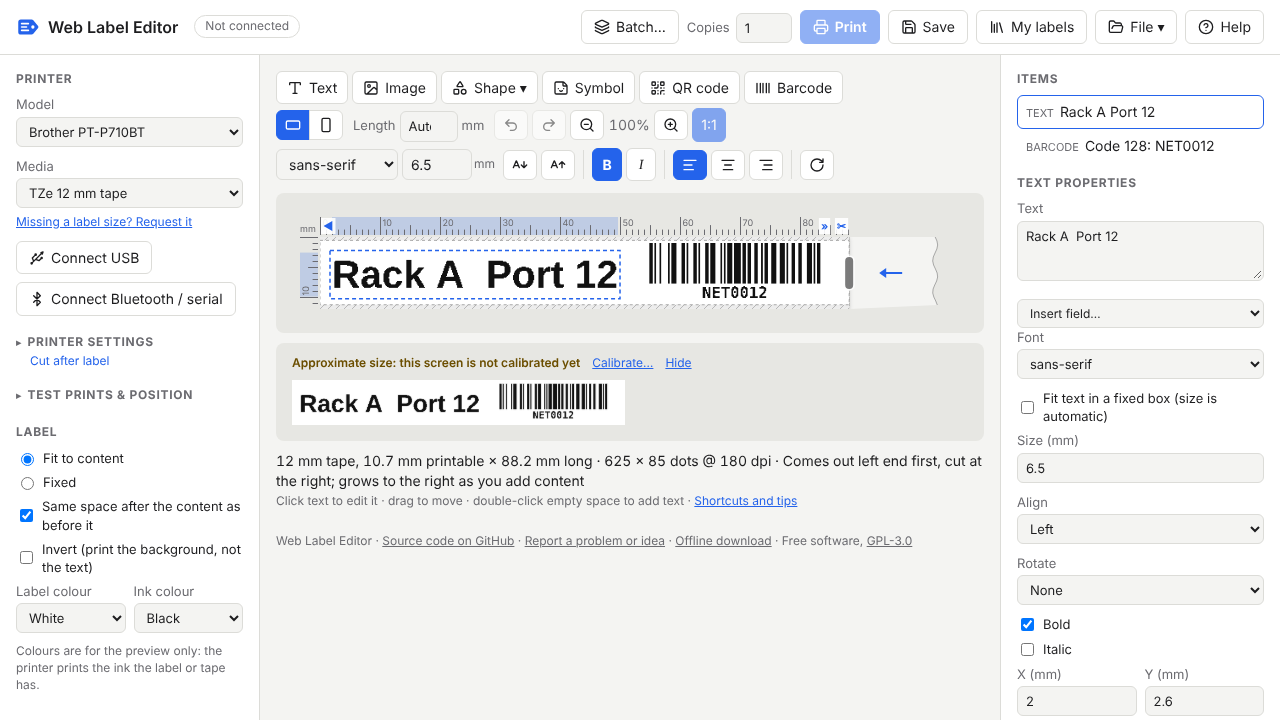
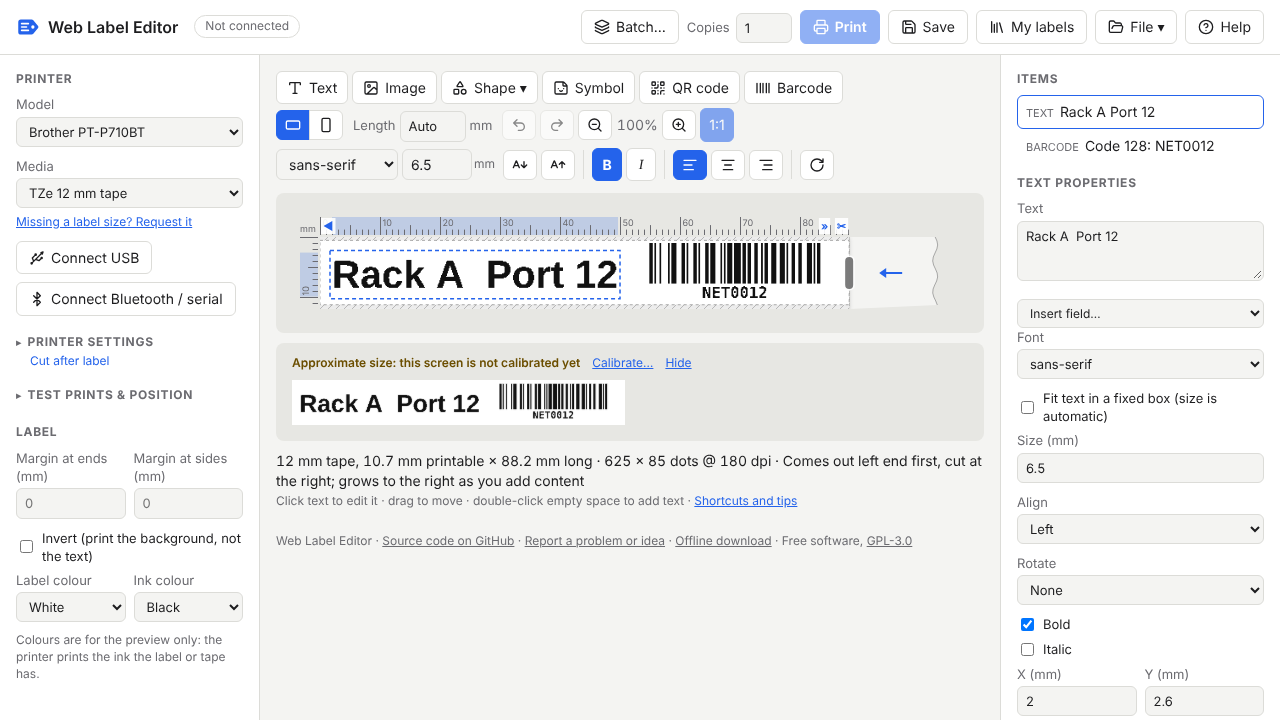
Your own margins; the Length box shows on die-cut labels too
Margin at ends and Margin at sides (under Label) keep space clear from
the label's edges: the safe-area guide, Fill safe area and new items keep
inside them, a note says when something is inside them, and an Auto
label leaves at least that much after the content. They don't change the
actual-size view, which shows what the printer leaves off.

The Length box is always in the toolbar (greyed, with the label's own
length, on die-cut labels), and its tooltip says when to use Auto or a
set length. The duplicate Fit to content / Fixed controls and the end
padding setting in the side panel are gone.

Claude-Session: https://claude.ai/code/session_01YQFkThD3TEfZZoGyfdA6sY

Changed region(s): [[0.0, 0.6111, 0.1875, 0.9472], [0.3438, 0.1528, 0.5938, 0.2139]]

diff --git a/src/app.js b/src/app.js
@@ -39,7 +39,8 @@ function newDesign() {
     printer: 'dymo-lw450',
     medium: '30252',
     options: {},
-    length: { mode: 'auto', mm: 60, padMm: 2, even: true },
+    length: { mode: 'auto', mm: 60 },
+    margins: { endsMm: 0, sidesMm: 0 },
     invert: false,
     items: [
       {
@@ -300,7 +301,9 @@ const hardMargins = (lane) => {
   const r = reachMm(lane);
   return { left: Math.max(0, r.left), right: Math.max(0, r.right), top: Math.max(0, r.top), bottom: Math.max(0, r.bottom) };
 };
-const margins = (lane) => {
+// Where the printer prints reliably: the label's own margins and the
+// printer's reach.
+const printerMargins = (lane) => {
   const mg = mediumMargins(medium());
   const hard = hardMargins(lane);
   return {
@@ -309,6 +312,20 @@ const margins = (lane) => {
     top: Math.max(mg.top, hard.top),
     bottom: Math.max(mg.bottom, hard.bottom),
   };
+};
+// The user's own margins (Label → Margins), from the label's edges: at the
+// ends (along the feed) and the sides (across). Saved with the design.
+const userMargins = () => {
+  const ends = Math.max(0, Number(design.margins?.endsMm) || 0);
+  const sides = Math.max(0, Number(design.margins?.sidesMm) || 0);
+  return { left: ends, right: ends, top: sides, bottom: sides };
+};
+// The safe area items keep to: the printer's, or the user's margins where
+// they are wider. Guides, warnings, Fill safe area and new items use it.
+const margins = (lane) => {
+  const p = printerMargins(lane);
+  const u = userMargins();
+  return { left: Math.max(p.left, u.left), right: Math.max(p.right, u.right), top: Math.max(p.top, u.top), bottom: Math.max(p.bottom, u.bottom) };
 };
 // The whole area an item can cover, overprint border included (mm, label
 // coordinates): the label plus its overprint border, within reach.
@@ -625,14 +642,16 @@ function draw() {
   ctx.fillRect(0, hard.y1, cssW, cssH - hard.y1);
   ctx.fillRect(0, hard.y0, hard.x0, hard.y1 - hard.y0);
   ctx.fillRect(hard.x1, hard.y0, cssW - hard.x1, hard.y1 - hard.y0);
-  const safe = slots.map((s) => {
-    const mg = round ? evenMargins(margins(s.lane)) : margins(s.lane);
+  const safeRects = (of) => slots.map((s) => {
+    const mg = round ? evenMargins(of(s.lane)) : of(s.lane);
     const a = px(toDisplay({
       x: mg.left * dpmm, y: s.y + mg.top * dpmm,
       w: geo.length - (mg.left + mg.right) * dpmm, h: geo.labelDots - (mg.top + mg.bottom) * dpmm,
     }));
     return { x0: a.x, y0: a.y, x1: a.x + a.w, y1: a.y + a.h };
   });
+  const safe = safeRects(margins);
+  const printerSafe = safeRects(printerMargins);
   ctx.strokeStyle = 'rgba(120, 120, 120, .6)';
   ctx.lineWidth = 1;
   ctx.setLineDash([3, 3]);
@@ -680,12 +699,18 @@ function draw() {
   const lenMm = geo.length / dpmm;
   // The Length box in the toolbar (rolls only): Auto, or the fixed length.
   const lenBox = $('len-box');
-  $('len-quick').hidden = !!med.lengthDots;
-  if (document.activeElement !== lenBox) {
+  // Die-cut labels: their own length, shown greyed so the box is always there.
+  lenBox.disabled = !!med.lengthDots;
+  if (med.lengthDots) {
+    lenBox.value = String(round1(lenMm));
+    lenBox.title = `Die-cut labels are ${round1(lenMm)} mm long. On a continuous roll or tape, set Auto or a length here.`;
+  } else if (document.activeElement !== lenBox) {
     lenBox.value = design.length.mode === 'fixed' ? String(design.length.mm) : 'Auto';
     lenBox.title = design.length.mode === 'fixed'
-      ? 'Label length in mm. Auto makes it as long as the content. You can also drag the label\'s end.'
-      : `Auto: as long as the content (now ${lenMm.toFixed(0)} mm). Type a length to fix it, or drag the label's end.`;
+      ? 'A set length: every label the same, e.g. to match drawer fronts or a batch. Auto makes it as long as the content. '
+        + 'You can also drag the label\'s end.'
+      : `Auto: as long as the content (now ${lenMm.toFixed(0)} mm), which saves tape when the text varies. `
+        + 'Type a length for labels that must all match, or drag the label\'s end.';
   }
   const lanes = med.lanes;
   const stock = m.family === 'brother-pt' ? 'tape' : med.continuous ? 'roll' : 'label';
@@ -721,8 +746,10 @@ function draw() {
     return [[b.x, b.y], [b.x + b.w, b.y], [b.x, b.y + b.h], [b.x + b.w, b.y + b.h]]
       .some(([x, y]) => ((x * scale - cx) / rx) ** 2 + ((y * scale - cy) / ry) ** 2 > 1);
   };
-  const pastSafe = (b, i) => b && outside(b, safe[last.lanes[i]]) || (b && round && outsideCircle(b, safe[last.lanes[i]]));
+  const pastSafe = (b, i, area = printerSafe) => b && outside(b, area[last.lanes[i]]) || (b && round && outsideCircle(b, area[last.lanes[i]]));
   const unsafe = offLabel ? [] : last.inks.map((b, i) => (pastSafe(b, i) ? design.items[i] : null)).filter(Boolean);
+  // Inside the user's own margins (but printable): worth a word, not a warning about printing.
+  const inMargin = offLabel || unsafe.length ? [] : last.inks.map((b, i) => (pastSafe(b, i, safe) ? design.items[i] : null)).filter(Boolean);
   const overprint = unsafe.length > 0;
   const dims = $('dims');
   // In words: the ends as seen in the preview.
@@ -735,6 +762,8 @@ function draw() {
     + cutNote
     + (overprint ? `  ·  ⚠ The ${kinds[unsafe[0].type]}${short(unsafe[0])}${unsafe.length > 1 ? ` and ${unsafe.length - 1} more` : ''} `
       + `${unsafe.length > 1 ? 'go' : 'goes'} past the safe area: it may be trimmed or not print` : '')
+    + (inMargin.length ? `  ·  The ${kinds[inMargin[0].type]}${short(inMargin[0])}${inMargin.length > 1 ? ` and ${inMargin.length - 1} more` : ''} `
+      + `${inMargin.length > 1 ? 'are' : 'is'} inside your margins` : '')
     + (last.hidden ? `  ·  ${last.hidden} item${last.hidden > 1 ? 's' : ''} on the other label${lanes?.count > 2 ? 's' : ''} hidden (choose "A different design on each")` : '')
     + `  ·  ${feedNote}`;
   dims.classList.toggle('warn', offLabel);
@@ -1181,16 +1210,9 @@ function buildSetup() {
   buildCustomMedia();
   $('request-label').hidden = !!m.custom || medium().id === 'custom';
 
-  const fixedLength = !!medium().lengthDots;
-  $('length-controls').hidden = fixedLength;
-  document.querySelectorAll('input[name="lenmode"]').forEach((r) => { r.checked = r.value === design.length.mode; });
-  $('len-mm').value = design.length.mm;
-  // Only the setting that applies: a length when fixed, padding when it fits the content.
-  $('len-mm').closest('label').hidden = design.length.mode !== 'fixed';
-  $('pad-mm').value = design.length.padMm;
-  $('len-even').checked = design.length.even !== false;
-  $('even-ends').hidden = design.length.mode !== 'auto';
-  $('pad-mm').closest('label').hidden = design.length.mode !== 'auto' || design.length.even !== false;
+  for (const [id, key] of [['margin-ends', 'endsMm'], ['margin-sides', 'sidesMm']]) {
+    if (document.activeElement !== $(id)) $(id).value = design.margins?.[key] || '';
+  }
   $('invert').checked = !!design.invert;
   const reported = tapeReported();
   const fixed = reported ? null : rollColors();
@@ -3606,7 +3628,9 @@ function drawActualPanel(real) {
   ctx.clip();
   ctx.beginPath();
   for (const s of slots) {
-    const mg = round ? evenMargins(margins(s.lane)) : margins(s.lane);
+    // The printer's limits, not the user's margins: those are a choice, not
+    // something the printer leaves off.
+    const mg = round ? evenMargins(printerMargins(s.lane)) : printerMargins(s.lane);
     const a = px(toDisplay({
       x: mg.left * dpmm, y: s.y + mg.top * dpmm,
       w: geo.length - (mg.left + mg.right) * dpmm, h: geo.labelDots - (mg.top + mg.bottom) * dpmm,
@@ -3713,11 +3737,10 @@ function wire() {
     disconnect().then(autoConnect);
   };
   $('medium').onchange = (e) => { keepFitting(() => selectMedium(e.target.value)); refresh({ setup: true }); };
-  document.querySelectorAll('input[name="lenmode"]').forEach((r) => {
-    r.onchange = () => { design.length.mode = r.value; refresh({ setup: true }); };
-  });
-  $('len-mm').oninput = (e) => { design.length.mm = parseFloat(e.target.value) || 5; refresh(); };
-  $('pad-mm').oninput = (e) => { design.length.padMm = parseFloat(e.target.value) || 0; refresh(); };
+  for (const [id, key] of [['margin-ends', 'endsMm'], ['margin-sides', 'sidesMm']]) {
+    $(id).oninput = (e) => { design.margins = { ...design.margins, [key]: Math.max(0, parseFloat(e.target.value) || 0) }; refresh(); };
+    $(id).onchange = () => undo.checkpoint();
+  }
   $('len-box').onfocus = (e) => e.target.select();
   $('len-box').onchange = (e) => {
     const v = e.target.value;
@@ -3727,7 +3750,6 @@ function wire() {
     undo.checkpoint();
     refresh({ setup: true });
   };
-  $('len-even').onchange = (e) => { design.length.even = e.target.checked; refresh({ setup: true }); };
   $('invert').onchange = (e) => { design.invert = e.target.checked; refresh(); };
   $('label-color').onchange = (e) => { design.colors = { ...design.colors, label: e.target.value }; undo.checkpoint(); refresh(); };
   $('ink-color').onchange = (e) => { design.colors = { ...design.colors, ink: e.target.value }; undo.checkpoint(); refresh(); };

diff --git a/index.html b/index.html
@@ -81,12 +81,9 @@
       </details>
 
       <h2>Label</h2>
-      <div id="length-controls">
-        <label class="inline"><input type="radio" name="lenmode" value="auto"> Fit to content</label>
-        <label class="inline"><input type="radio" name="lenmode" value="fixed"> Fixed</label>
-        <label>Length (mm) <input id="len-mm" type="number" min="5" step="1"></label>
-        <label class="inline" id="even-ends"><input id="len-even" type="checkbox"> Same space after the content as before it</label>
-        <label>Space after the content (mm) <input id="pad-mm" type="number" min="0" step="0.5"></label>
+      <div class="grid2" title="Space to keep clear, from the label's edges. A guide shows it, new and filled items keep inside it, and on Auto length the label leaves at least this much after the content.">
+        <label>Margin at ends (mm) <input id="margin-ends" type="number" min="0" step="0.5" placeholder="0"></label>
+        <label>Margin at sides (mm) <input id="margin-sides" type="number" min="0" step="0.5" placeholder="0"></label>
       </div>
       <label class="inline"><input id="invert" type="checkbox"> Invert (print the background, not the text)</label>
       <div class="grid2" title="Labels and tapes come in colours, some clear, some with coloured ink. The printer prints in the ink the label or tape has: this only changes the preview.">

diff --git a/src/render.js b/src/render.js
@@ -374,7 +374,8 @@ function drawBox(ctx, item, dpmm) {
 
 // The label's length along the feed, in dots: fixed, or (fit to content)
 // up to the furthest item (its right edge, or its bottom edge in portrait)
-// and then as much space again as before the first one, or `padMm`.
+// and then as much space again as before the first one (at least the
+// margin at the ends).
 export function stripLength(design, medium, dpi, ctx, items = design.items, portrait = false) {
   const dpmm = dpi / 25.4;
   if (medium.lengthDots) return medium.lengthDots;
@@ -386,8 +387,10 @@ export function stripLength(design, medium, dpi, ctx, items = design.items, port
     right = Math.max(right, portrait ? b.y + b.h : b.x + b.w);
     left = Math.min(left, portrait ? b.y : b.x);
   }
-  // The space after the content: the same as before it (even ends), or set.
-  const pad = design.length.even !== false && Number.isFinite(left) ? Math.max(0, left) : design.length.padMm * dpmm;
+  // The space after the content: as much as before it, and at least the
+  // user's margin at the ends.
+  const ends = (Number(design.margins?.endsMm) || 0) * dpmm;
+  const pad = Math.max(ends, Number.isFinite(left) ? left : 0);
   return Math.max(Math.round(5 * dpmm), Math.round(right + pad));
 }
 

diff --git a/src/about.js b/src/about.js
@@ -146,7 +146,10 @@ function tips() {
         + 'all, a different design on each (click a label to add to it, drag items between them), or one at a time. '
         + 'The 🔓 Edit separately button on the dimmed copy unlinks it, starting from a copy of label 1.'),
       li(b('Length'), ' (toolbar, on rolls and tape): Auto makes the label as long as its content, with the same space at '
-        + 'both ends; type a length, or drag the label\'s right end, to fix it.'),
+        + 'both ends, which saves tape when the text varies. Type a length, or drag the label\'s right end, when labels '
+        + 'must all match (drawer fronts, a batch).'),
+      li(b('Margin at ends'), ' and ', b('Margin at sides'), ' (under Label) keep space clear from the edges: the guide, ',
+        b('Fill safe area'), ' and new items keep inside them.'),
       li(b('Rulers'), ' measure from the label\'s starting edge and from each label\'s top, and mark the selected item.')),
     el('h3', { textContent: 'Batches: data, numbers and dates' }),
     el('ul', {},

diff --git a/style.css b/style.css
@@ -420,4 +420,4 @@ a.button { display: inline-block; text-decoration: none; }
 .with-picker .field-picker { margin-top: 4px; font-size: 12px; }
 #color-note { font-size: 12px; color: var(--muted); margin: 0 0 8px; }
 .len-quick { display: inline-flex; align-items: center; gap: 4px; font-size: 13px; color: var(--muted); margin: 0 6px; }
-.len-quick input { width: 58px; }
+.len-quick input { width: 66px; }

diff --git a/src/calibration.js b/src/calibration.js
@@ -67,7 +67,7 @@ export function testPatternDesign(pattern, lengthMm, widthMm, dpmm, { printer, m
     printer,
     medium,
     options: {},
-    length: { mode: 'fixed', mm: lengthMm, padMm: 0 },
+    length: { mode: 'fixed', mm: lengthMm },
     invert: false,
     items,
   };

diff --git a/README.md b/README.md
@@ -253,8 +253,13 @@ The app has its own welcome page and **Help** with the same information.
   new label or tape, it is shrunk evenly to fit (undo brings it back).
 - **Label length on rolls and tape:** the *Length* box in the toolbar says
   *Auto* (as long as what is on it, with the same space after the content as
-  before it) or a length in mm; type one, or drag the label's end as in
-  P-touch Editor. Die-cut labels use their own size.
+  before it: saves tape when the text varies) or a length in mm, for labels
+  that must all match; type one, or drag the label's end as in P-touch
+  Editor. On die-cut labels it shows their own length.
+- **Your own margins:** *Margin at ends* and *Margin at sides* (under Label)
+  keep space clear from the label's edges, on die-cut labels and tape alike.
+  The safe-area guide, *Fill safe area* and new items keep inside them, and
+  an Auto-length label leaves at least that much after the content.
 - **Portrait** (▭ ▯ in the toolbar):
   design the label standing upright, as in DYMO Label; it is turned for
   printing. On tape and continuous rolls the label grows downwards with the
